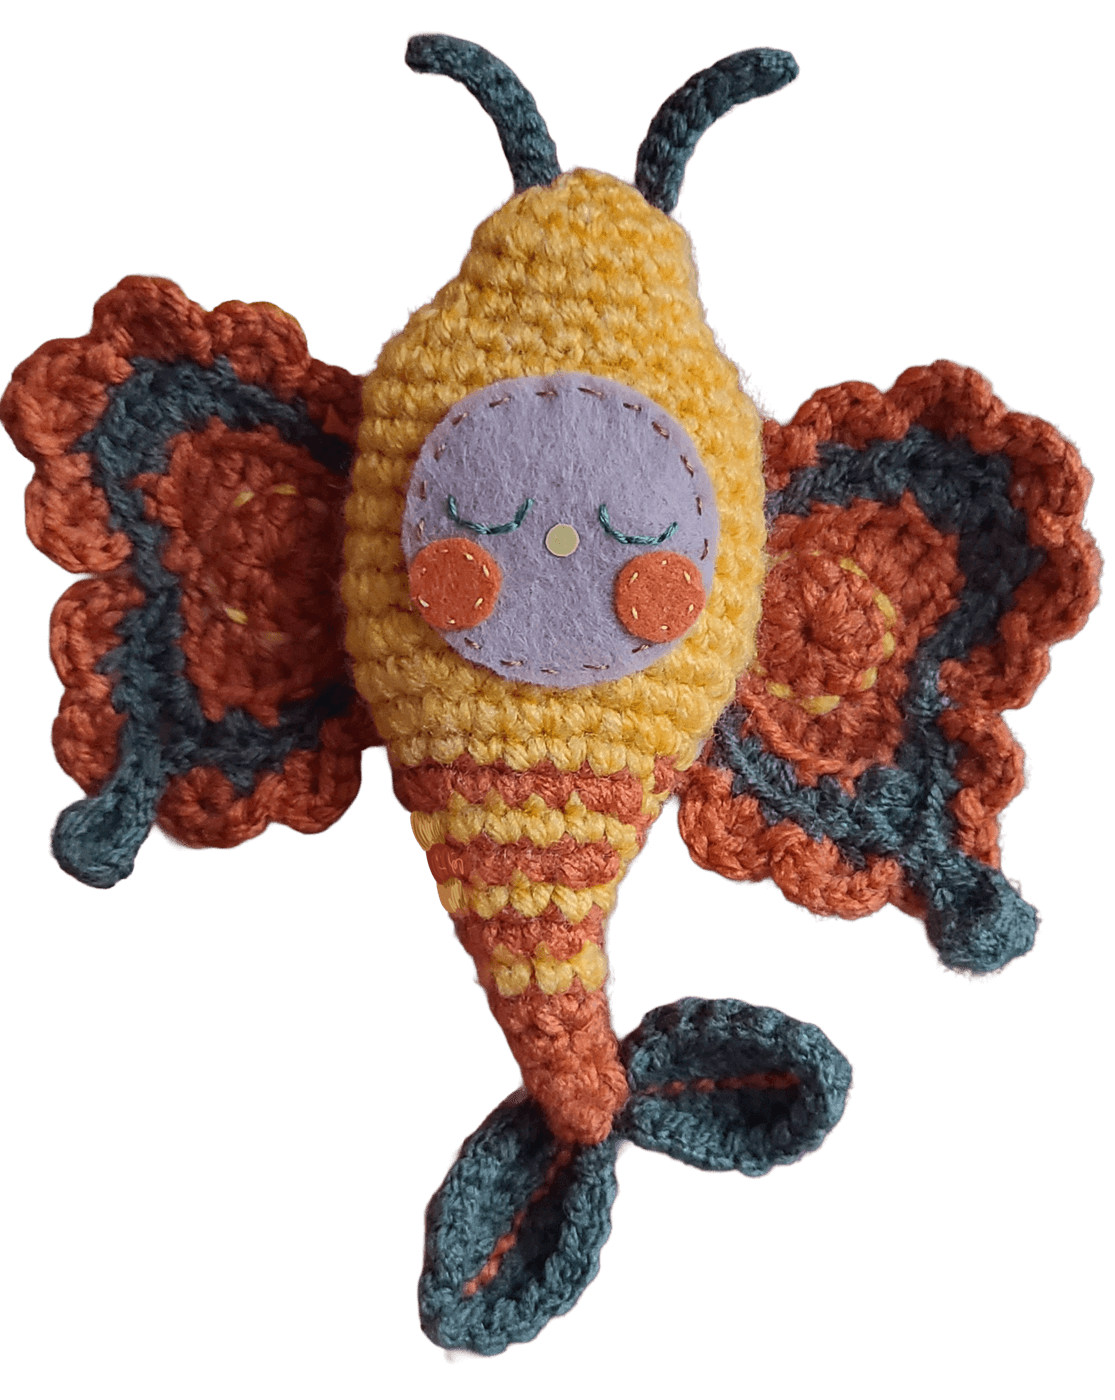
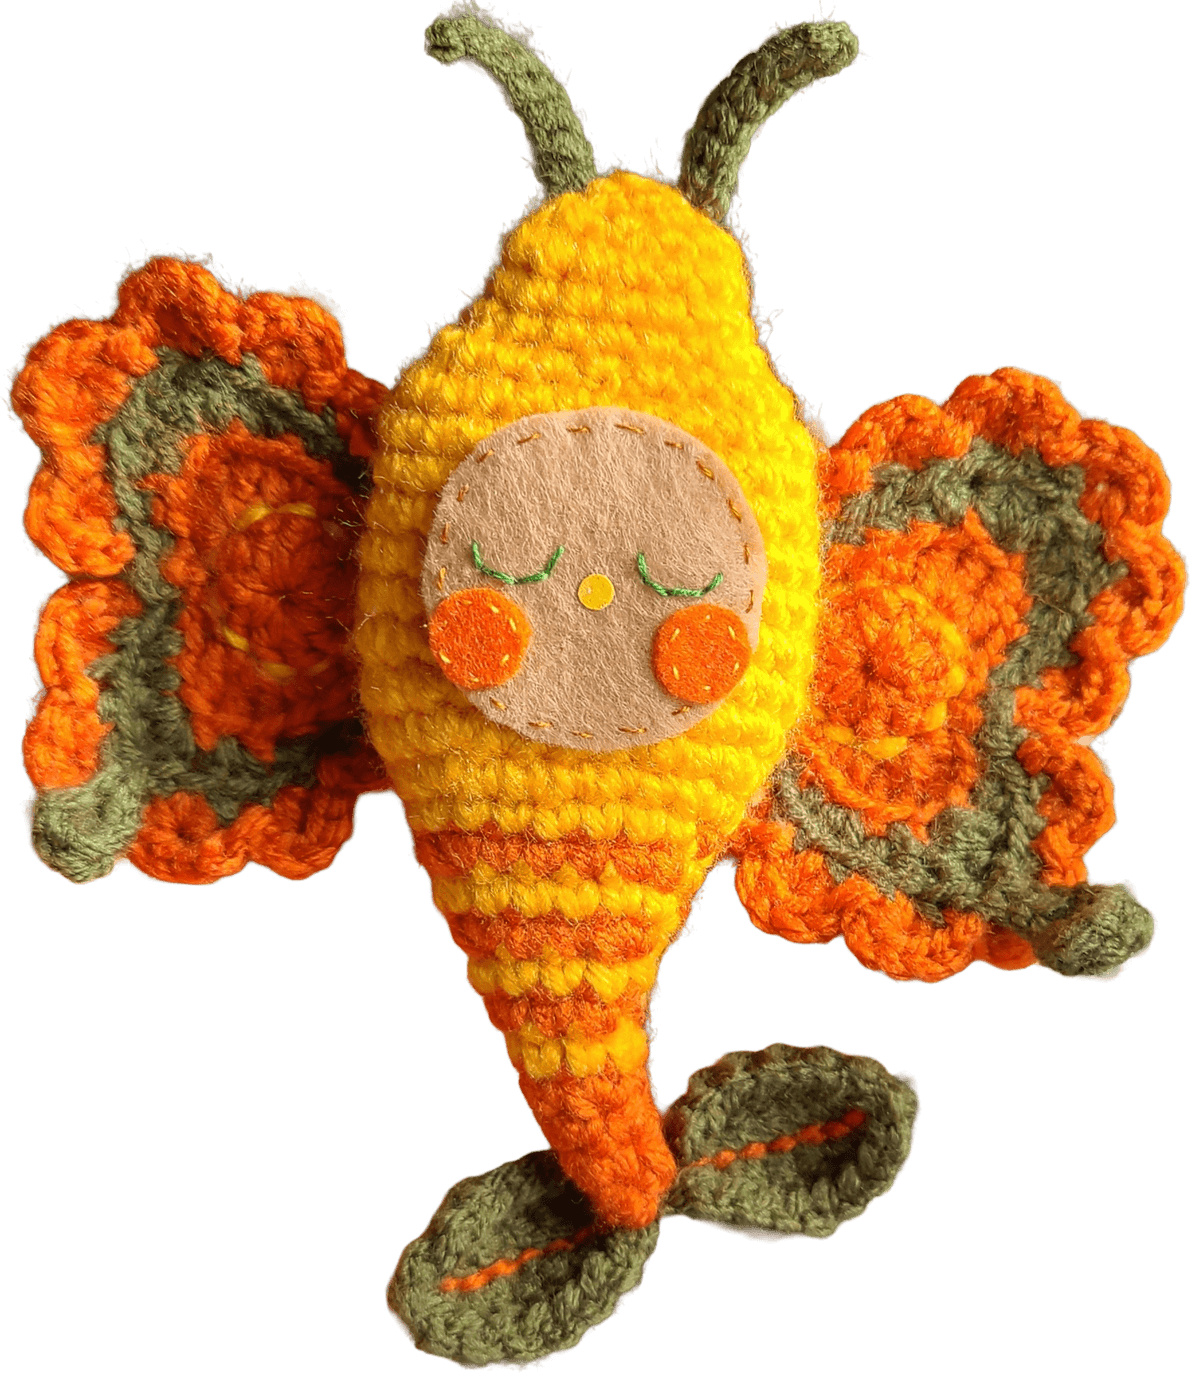
ginkgo fairy

diff --git a/fairy-shop/src/shopProducts.js b/fairy-shop/src/shopProducts.js
@@ -35,9 +35,9 @@ export const SHOP_CATEGORIES = [
 ];
 
 export const shopProducts = [
+  { slug: 'ginkgo-fairy',     title: 'Ginkgo Fairy Sylph',     price: '$35',   category: 'sylph',    kofiUrl: 'https://ko-fi.com/s/17677c8e4e' },
   { slug: 'amber-glow-butterfly',     title: 'Amber Glow Butterfly',     price: '$35',   category: 'tenshi',    kofiUrl: 'https://ko-fi.com/s/06bdce3346' },
   { slug: 'princess-polly',     title: 'Princess Polly Cream Cake',     price: '$35',   category: 'kirarin',    kofiUrl: 'https://ko-fi.com/s/019d649d5b' },
-
   { slug: 'franken-frootie',     title: 'Franken-Frootie',     price: '$30',   category: 'toodie',    kofiUrl: 'https://ko-fi.com/s/ca78e28068' },
   { slug: 'garnet-starlight-witch',     title: 'Garnet Starlight Witch',     price: '$70',   category: 'lovely',    kofiUrl: 'https://ko-fi.com/s/8c3edc4c85' },
   { slug: 'sunset-candy-spider',        title: 'Sunset Candy Spider',        price: '$40',   category: 'kirarin',    kofiUrl: 'https://ko-fi.com/s/44caf8c860' },
